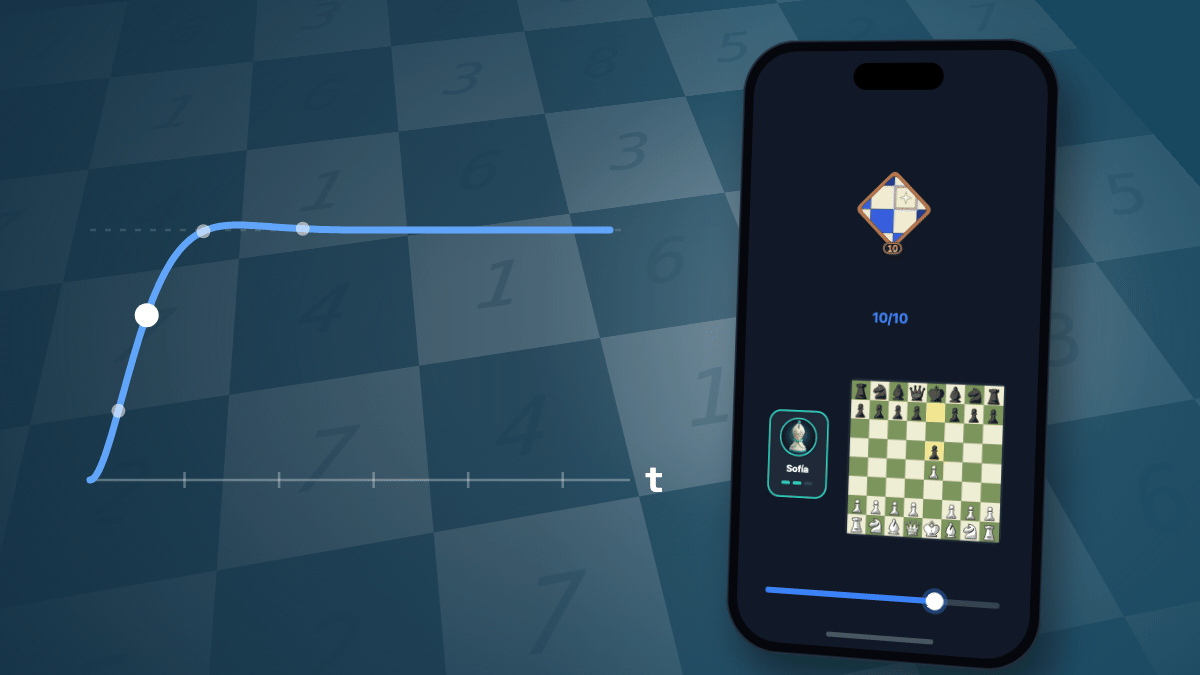
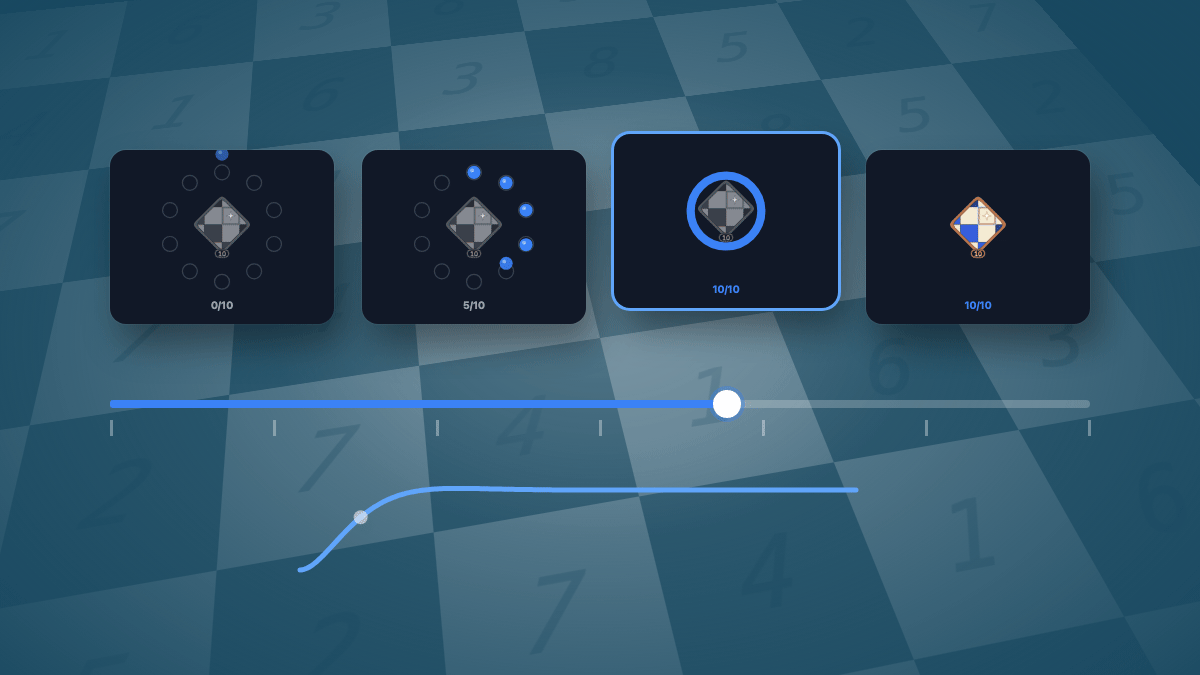
Publish the onboarding animations post
Cover option D (the badge scene as a filmstrip over a timeline), draft off, dated
5 November, and the draft notes removed. The design-kit post stays hidden.

diff --git a/content/posts/1793810125084-animaciones-onboarding-html-swiftui/index.es.md b/content/posts/1793810125084-animaciones-onboarding-html-swiftui/index.es.md
@@ -1,15 +1,13 @@
 ---
 title: "Motion graphics con IA, pero en SwiftUI nativo: las escenas del onboarding de MindChess"
-date: 2026-11-04
-draft: true
+date: 2026-11-05
+draft: false
 layout: simple
 description: "Cómo uso la IA para hacer motion graphics que acaban en SwiftUI nativo: cada escena es una función pura del tiempo, se prototipa en un canvas HTML con un agente y se porta a un Canvas de SwiftUI línea por línea. Dos casos reales del onboarding de MindChess."
 summary: "Todo el mundo hace motion graphics con IA para vídeos. Yo quería lo mismo dentro de la app, en SwiftUI nativo. La clave fue escribir cada escena como una función draw(t)."
 tags: ["swiftui", "animaciones", "canvas", "ia", "mindchess"]
 showTableOfContents: true
 ---
-
-<!-- Borrador 2026-11-05 en la rama drafts/kit-y-animaciones. Enfoque: usos de la IA de los que no he oído hablar. Cotejado con design-iphone/assets/motion.js del kit y con MotionKit.swift y MotionScenes de la app. Las demos ejecutan el motion.js del kit (static/demos/motion-scene/assets). -->
 
 Llevo un tiempo viendo cómo la gente hace motion graphics con IA. Desde que salió Opus 5.5, cada semana aparece alguien con un vídeo de producto, una intro animada o una explicación con tipografía en movimiento, y todo hecho describiendo lo que quiere a un agente que escribe el código.
 

diff --git a/content/posts/1793810125084-animaciones-onboarding-html-swiftui/index.en.md b/content/posts/1793810125084-animaciones-onboarding-html-swiftui/index.en.md
@@ -1,15 +1,13 @@
 ---
 title: "Motion graphics with AI, but in native SwiftUI: the MindChess onboarding scenes"
-date: 2026-11-04
-draft: true
+date: 2026-11-05
+draft: false
 layout: simple
 description: "How I use AI to make motion graphics that end up in native SwiftUI: every scene is a pure function of time, prototyped on an HTML canvas with an agent and ported line by line to a SwiftUI Canvas. Two real cases from the MindChess onboarding."
 summary: "Everyone is making motion graphics with AI for videos. I wanted the same thing inside the app, in native SwiftUI. The key was writing every scene as a draw(t) function."
 tags: ["swiftui", "animations", "canvas", "ai", "mindchess"]
 showTableOfContents: true
 ---
-
-<!-- Draft 2026-11-05 on branch drafts/kit-y-animaciones. English version of index.es.md. Angle: uses of AI I haven't heard people talk about. Checked against the kit's design-iphone/assets/motion.js and the app's MotionKit.swift and MotionScenes. The demos run the kit's motion.js (static/demos/motion-scene/assets). -->
 
 For a while now I've been watching people make motion graphics with AI. Since Opus 5.5 came out, every week someone shows up with a product video, an animated intro or an explainer full of moving type, all of it made by describing what they want to an agent that writes the code.
 
